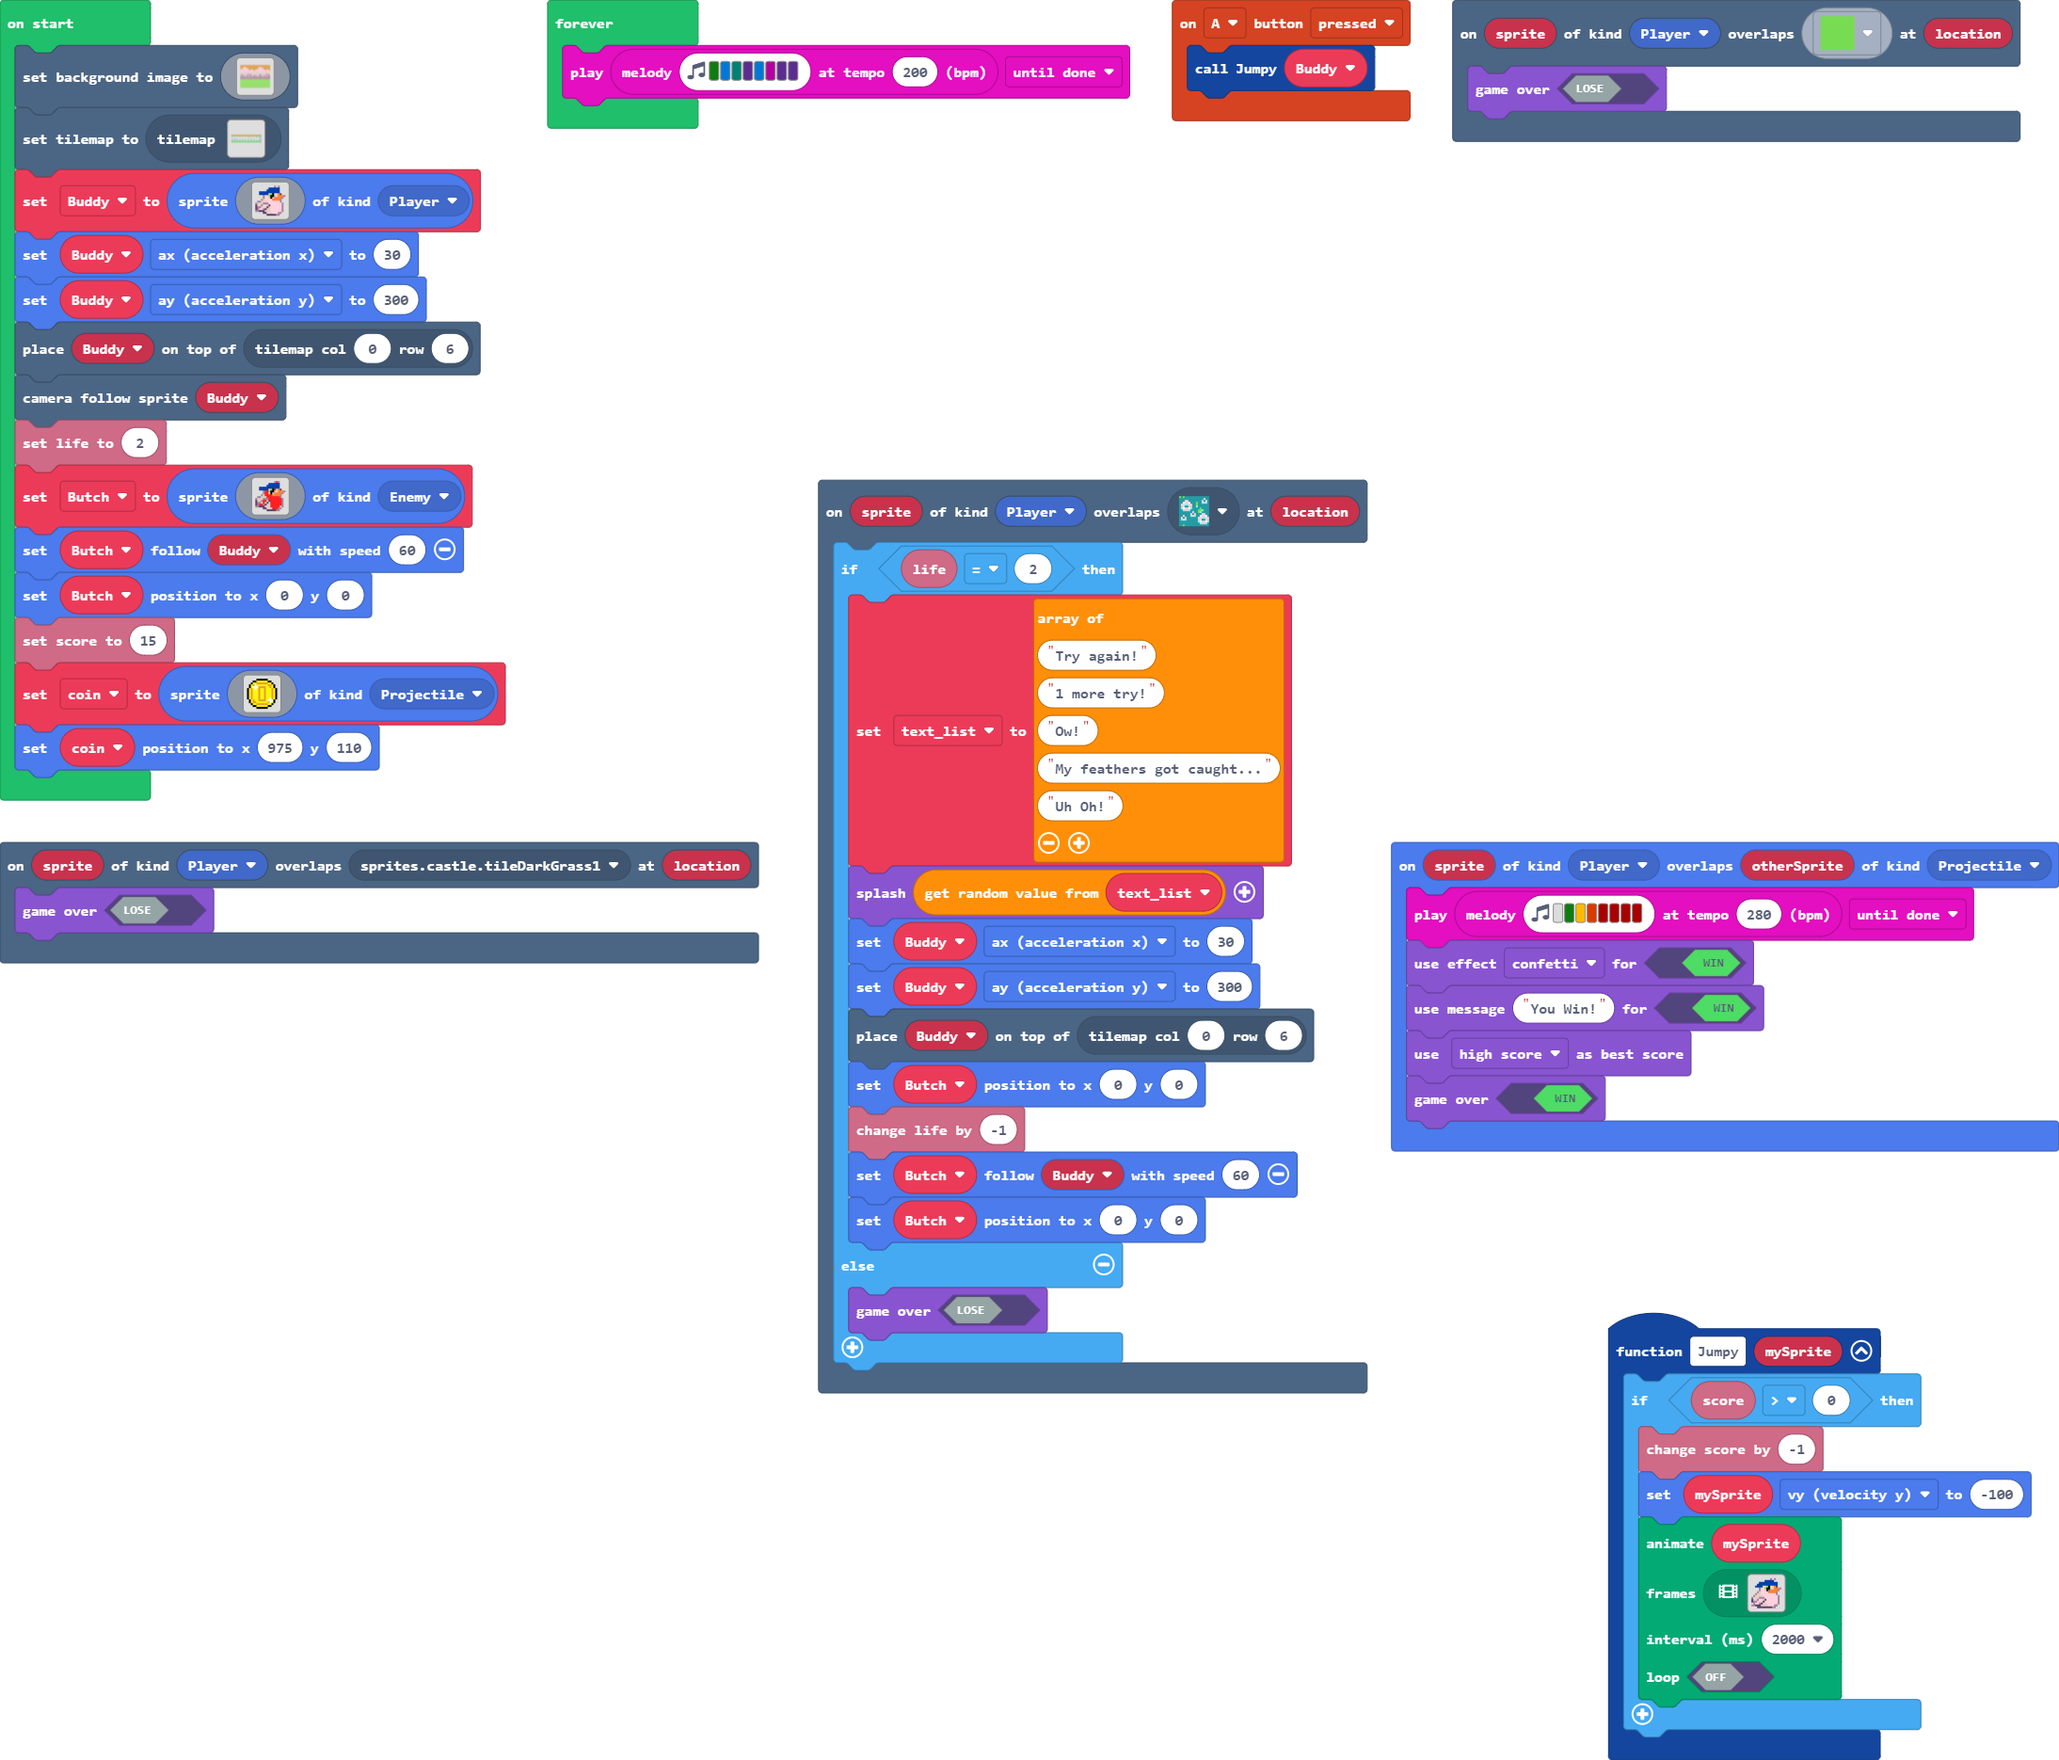
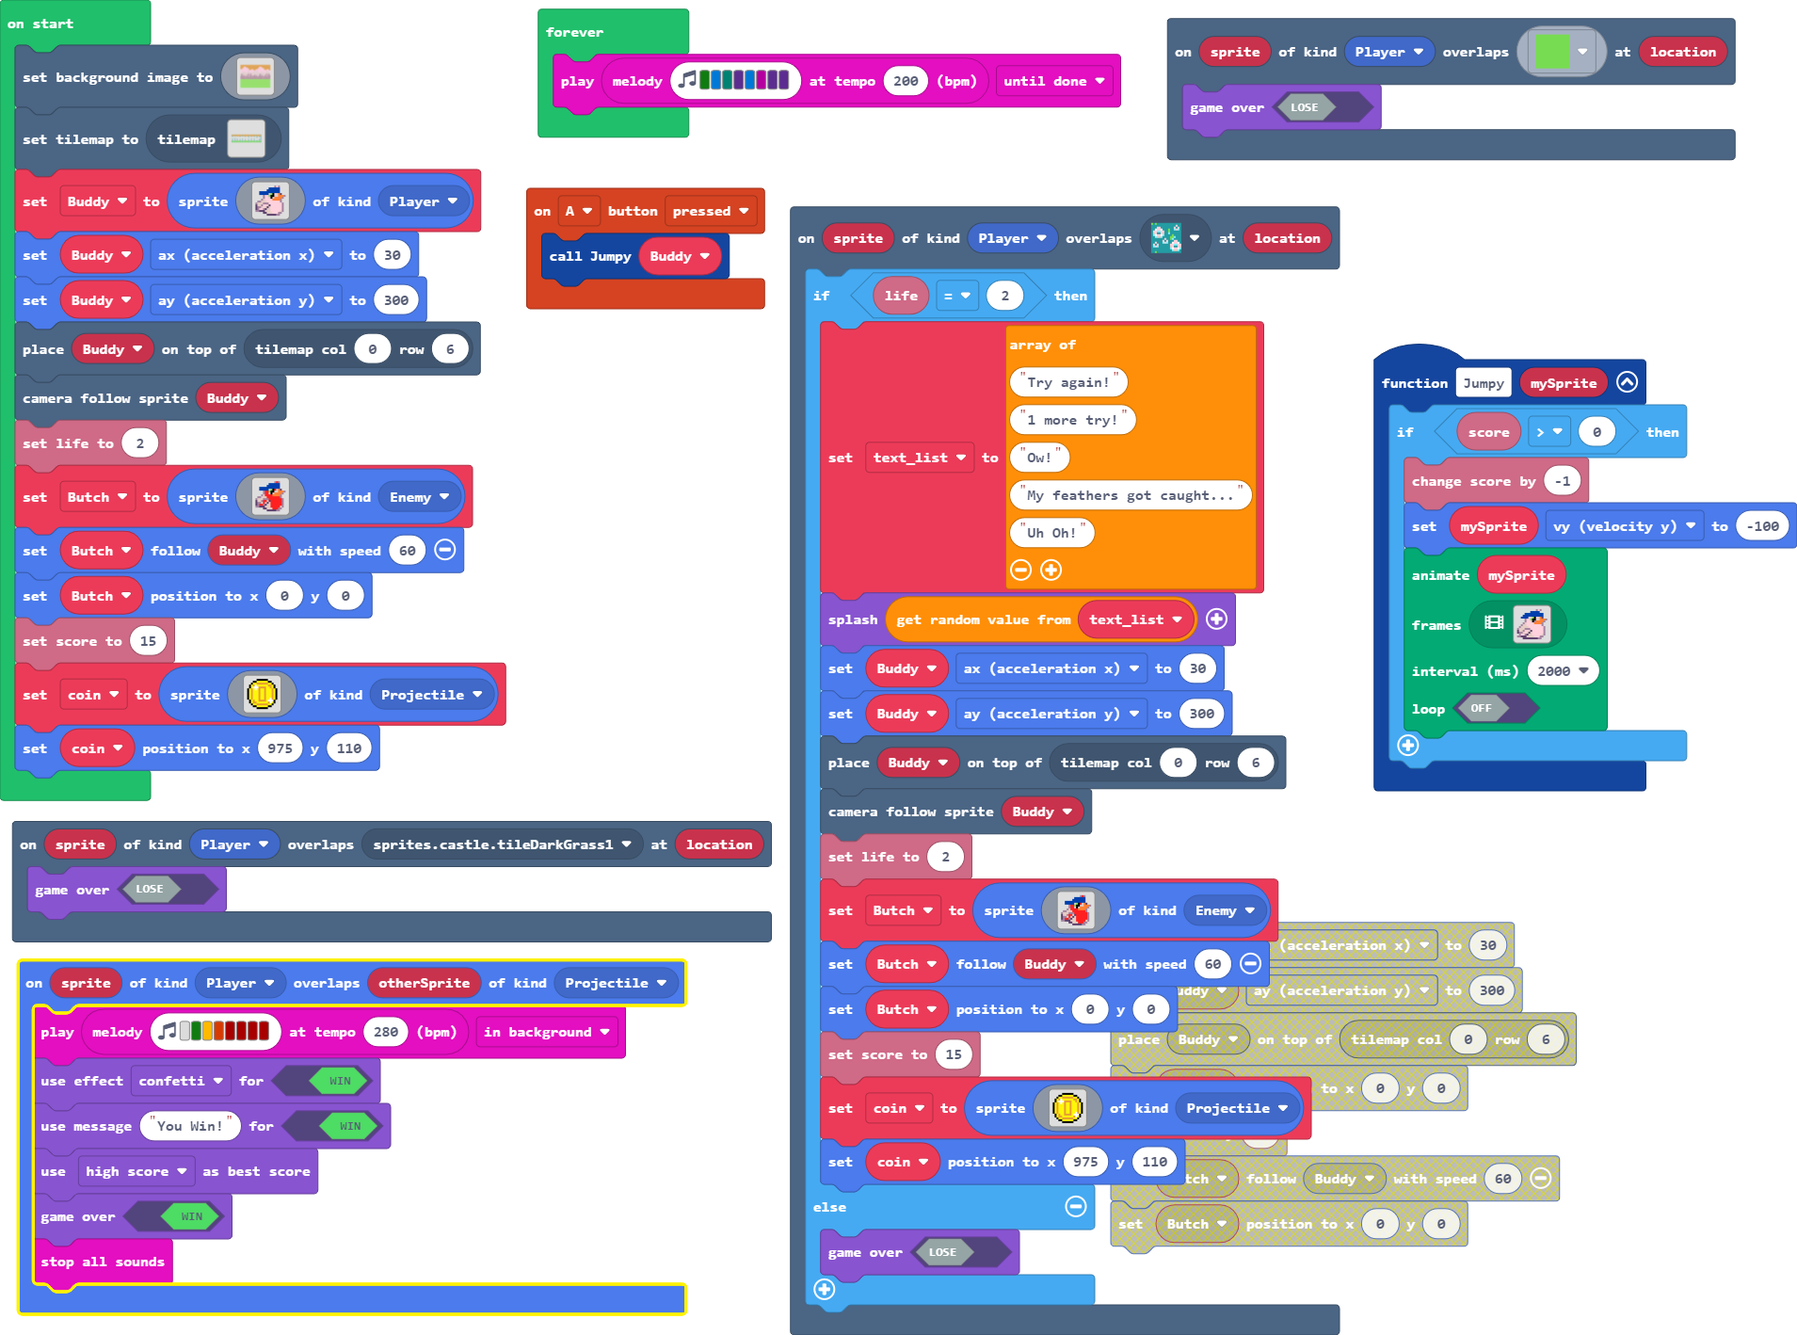
Update main.blocks, main.ts

diff --git a/main.ts b/main.ts
@@ -90,15 +90,54 @@ scene.onOverlapTile(SpriteKind.Player, sprites.castle.tileDarkGrass2, function (
         Buddy.ax = 30
         Buddy.ay = 300
         tiles.placeOnTile(Buddy, tiles.getTileLocation(0, 6))
-        Butch.setPosition(0, 0)
-        info.changeLifeBy(-1)
+        scene.cameraFollowSprite(Buddy)
+        info.setLife(2)
+        Butch = sprites.create(img`
+            . . . . . . . . . . b 2 b . . . 
+            . . . . . . . a a a a a a . . . 
+            . . . . . . a a a a a a a . . . 
+            . . a a a a a a a a a a a . . . 
+            . . a a a a a d 7 f 2 d 4 c . . 
+            . . . . b 2 2 7 f f d d 4 4 4 b 
+            . . . . b 2 2 d f d 4 4 4 4 b . 
+            . . . b d 2 2 2 2 4 4 4 4 b . . 
+            . b b d d d 2 2 2 2 2 2 2 b . . 
+            b d d d b b b 2 2 2 2 2 2 2 b . 
+            c d d b 2 2 d c 2 2 2 2 2 2 b . 
+            c b b d 2 d c d 2 2 2 2 2 2 b . 
+            c b 2 2 b c d d 2 2 2 2 2 2 b . 
+            b b c c c d d d 2 2 2 2 2 d b . 
+            . . . . c c d d d 2 2 2 b b . . 
+            . . . . . . c c c c c b b . . . 
+            `, SpriteKind.Enemy)
         Butch.follow(Buddy, 60)
         Butch.setPosition(0, 0)
+        info.setScore(15)
+        coin = sprites.create(img`
+            . . . . . f f f f f f . . . . . 
+            . . . f f 5 5 5 5 5 5 f f . . . 
+            . . f 5 5 9 9 9 9 9 9 5 5 f . . 
+            . f 5 9 3 5 5 5 5 5 5 9 9 5 f . 
+            . f 5 3 3 3 9 9 9 9 5 5 9 5 f . 
+            f 5 9 5 3 5 9 5 5 9 5 5 5 9 5 f 
+            f 5 9 5 5 5 9 5 5 9 5 5 5 9 5 f 
+            f 5 9 5 5 5 9 5 5 9 5 5 5 9 5 f 
+            f 5 9 5 5 5 9 5 5 9 5 5 5 9 5 f 
+            f 5 9 5 5 5 9 5 5 9 5 5 5 9 5 f 
+            f 5 9 5 5 5 9 5 5 9 5 5 3 9 5 f 
+            . f 5 9 5 5 9 9 9 9 5 3 3 3 f . 
+            . f 5 9 9 5 5 5 5 5 5 9 3 5 f . 
+            . . f 5 5 9 9 9 9 9 9 5 5 f . . 
+            . . . f f 5 5 5 5 5 5 f f . . . 
+            . . . . . f f f f f f . . . . . 
+            `, SpriteKind.Projectile)
+        coin.setPosition(975, 110)
     } else {
         game.gameOver(false)
     }
 })
 let text_list: string[] = []
+let coin: Sprite = null
 let Butch: Sprite = null
 let Buddy: Sprite = null
 scene.setBackgroundImage(img`
@@ -268,7 +307,7 @@ Butch = sprites.create(img`
 Butch.follow(Buddy, 60)
 Butch.setPosition(0, 0)
 info.setScore(15)
-let coin = sprites.create(img`
+coin = sprites.create(img`
     . . . . . f f f f f f . . . . . 
     . . . f f 5 5 5 5 5 5 f f . . . 
     . . f 5 5 9 9 9 9 9 9 5 5 f . . 
